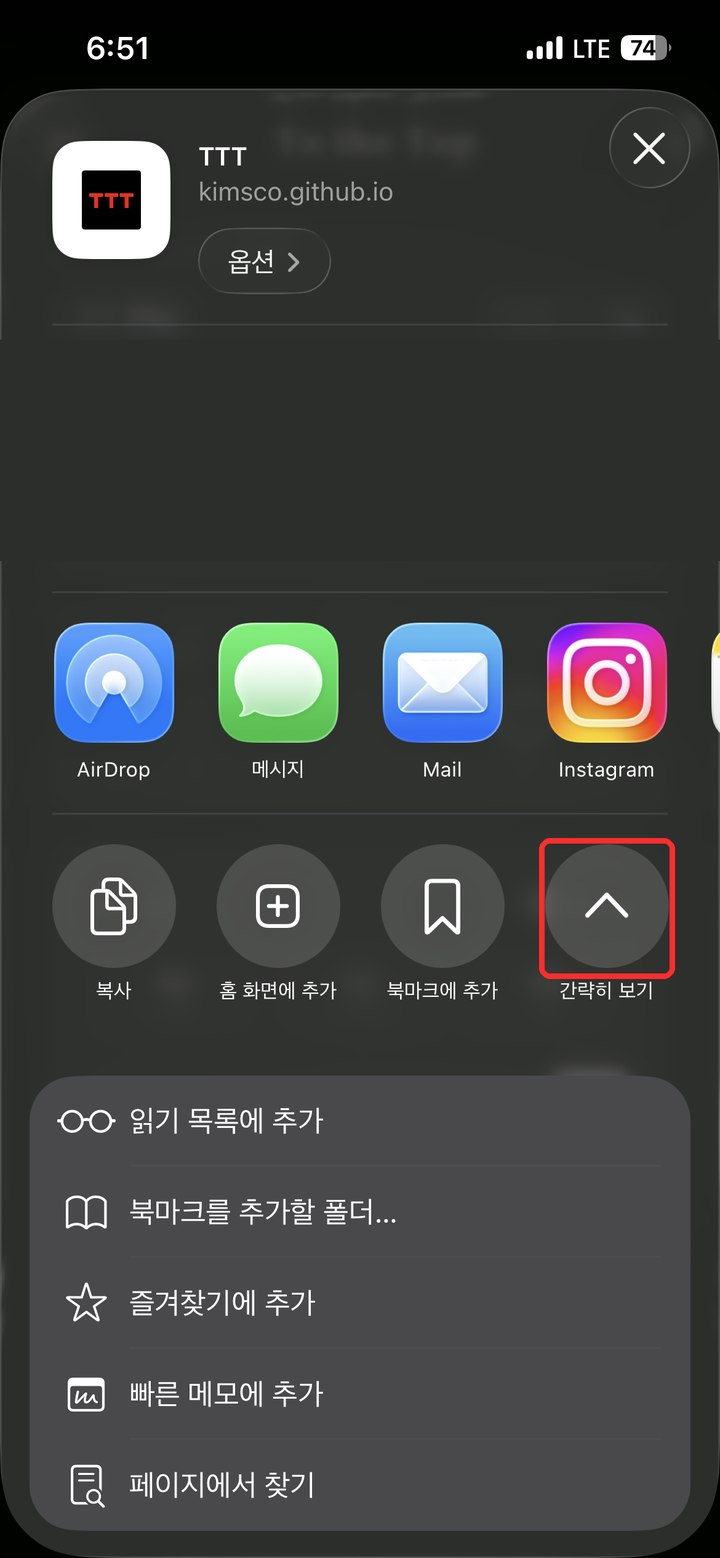
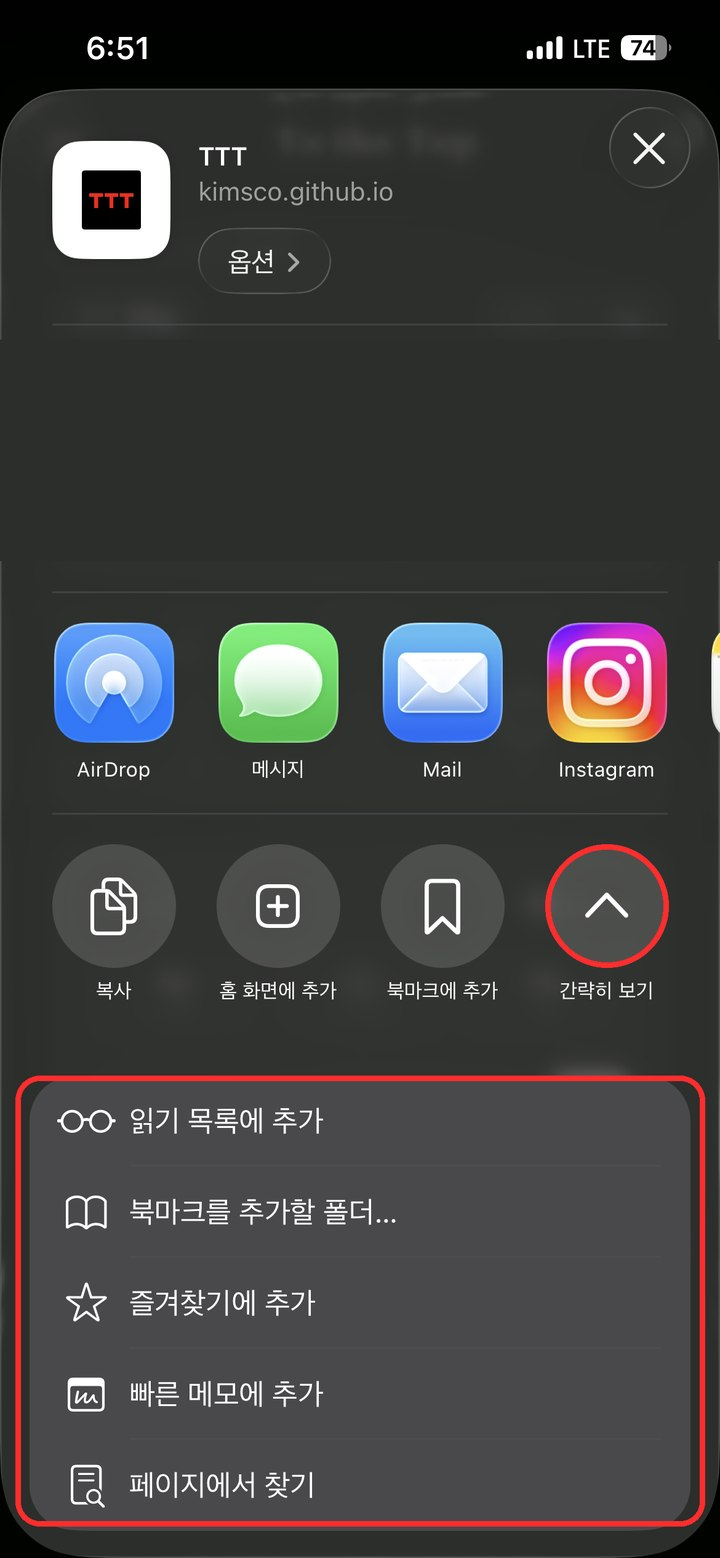
fix: 4번 슬라이드 마커를 "간략히 보기" 원형 + 하단 상자 테두리로 수정 (#684)
"간략히 보기" 버튼은 다른 원형 아이콘들과 동일하게 빨간 원으로,
그 아래 확장된 옵션 상자(읽기 목록에 추가 ~ 페이지에서 찾기)는
전체를 감싸는 빨간 사각 테두리로 표시하도록 수정.

Claude-Session: https://claude.ai/code/session_01TNoGCWRQtXcfdnQwZ6HvCX

Changed region(s): [[0.0, 0.6778, 1.0, 0.9859], [0.7333, 0.5237, 0.9472, 0.647]]

diff --git a/index.html b/index.html
@@ -11237,7 +11237,7 @@ const settingsHeaderName = document.getElementById("settingsHeaderName");
 const settingsHeaderSub = document.getElementById("settingsHeaderSub");
 
 /* ✅ 앱 버전 정의 — 의미 있는 수정/배포마다 올림(설정 화면에서 "최신 버전 받았는지" 확인용) */
-const APP_VERSION = "0.9.220";
+const APP_VERSION = "0.9.221";
 const appVersionDisplay = document.getElementById("appVersionDisplay");
 if (appVersionDisplay) {
   appVersionDisplay.textContent = APP_VERSION;
